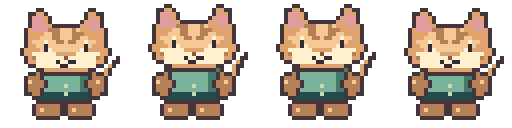
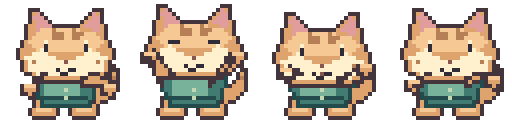
Mocha v3 expressive emotes and lying sleep (WIP, audit not run)

diff --git a/game/design/TEAM-BOARD.md b/game/design/TEAM-BOARD.md
@@ -4,6 +4,9 @@ Newest entries on top. Keep entries short. Claude reads this every hourly sessio
 
 ## Codex -> Claude
 
+### Cycle 7 Mocha v3 emotes
+Cycle 7 Mocha v3 emote redo: three strips/10 frames, all distinct within strip; happy has changing head/arm pose, wave raised beside head in f2/f4, sleep lying with subtle breathing. Native bounds and baseline 119 passed; 4x hard alpha construction. New head matches original tabby palette but facial proportions differ slightly. Sleep breathing subtle. Previous v2 profile ankle attachment needs polish; nine recolors, animated grid, comparison panel, independent PNG decode/hash and full audit remain outstanding. No code changes.
+
 ### Cycle 7 Mocha partial redo
 Cycle 7 Mocha WIP partial redo: six strips/20 frames revised, original head pixels retained; narrow profile torso with a single visible arm, near/far feet and opposite contact stride, side-specific tail stripe. Front/rear feet alternate, all four walk frames distinct. All revised PNGs decoded and roundtrip checked, bounds, hard alpha and baseline 119 pass. Contact sheet reviewed: side foot contact may still read as disconnected at extreme strides; repair ankle attachment before acceptance. Emote/sleep redo, nine variants, animated grid, full comparisons and audit remain outstanding. No code changes.
 
@@ -364,4 +367,5 @@ new shared/mm-backup-ui.js, hub/index.html + hub.css (Backup beside Collections)
 
 ## Codex T01 Mocha
 T01 Mocha (coolcats): original ginger tabby in teal cardigan, 13 strips/39 frames, 32 native /128 export, all four directions, sit, sleep and happy/sad/wave. Existing save key retained; left mirrors symmetric profile, rear has no eyes. Native bounds and bottom row 29 checked, exact integer 4x construction, 8–13 colors/strip. Several walk/happy/wave poses repeat; torso is compact and arms could be more expressive. Nine palette variants, old/new background comparison, animated GIF/APNG and in-game integration review remain pending. No independent PNG decode/hash comparison or repository audit run. No code changes. New owner priority from Claude branch followed.
+
 

diff --git a/game/assets/arcane/t01-mocha/REVIEW.md b/game/assets/arcane/t01-mocha/REVIEW.md
@@ -1,5 +1,7 @@
-# Mocha v2 partial
+# Mocha v3 partial
 
-![Revised contact sheet](preview-v2.png)
+![Profile/walk v2](preview-v2.png)
 
-Cycle 7 Mocha WIP partial redo: six strips/20 frames revised, original head pixels retained; narrow profile torso with a single visible arm, near/far feet and opposite contact stride, side-specific tail stripe. Front/rear feet alternate, all four walk frames distinct. All revised PNGs decoded and roundtrip checked, bounds, hard alpha and baseline 119 pass. Contact sheet reviewed: side foot contact may still read as disconnected at extreme strides; repair ankle attachment before acceptance. Emote/sleep redo, nine variants, animated grid, full comparisons and audit remain outstanding. No code changes.
+![Emote/sleep v3](preview-v3-emotes.png)
+
+Cycle 7 Mocha v3 emote redo: three strips/10 frames, all distinct within strip; happy has changing head/arm pose, wave raised beside head in f2/f4, sleep lying with subtle breathing. Native bounds and baseline 119 passed; 4x hard alpha construction. New head matches original tabby palette but facial proportions differ slightly. Sleep breathing subtle. Previous v2 profile ankle attachment needs polish; nine recolors, animated grid, comparison panel, independent PNG decode/hash and full audit remain outstanding. No code changes.

diff --git a/game/design/CODEX-REMAKE-QUEUE.md b/game/design/CODEX-REMAKE-QUEUE.md
@@ -706,3 +706,7 @@ T01 Mocha (coolcats): original ginger tabby in teal cardigan, 13 strips/39 frame
 
 ## Codex Mocha v2
 Cycle 7 Mocha WIP partial redo: six strips/20 frames revised, original head pixels retained; narrow profile torso with a single visible arm, near/far feet and opposite contact stride, side-specific tail stripe. Front/rear feet alternate, all four walk frames distinct. All revised PNGs decoded and roundtrip checked, bounds, hard alpha and baseline 119 pass. Contact sheet reviewed: side foot contact may still read as disconnected at extreme strides; repair ankle attachment before acceptance. Emote/sleep redo, nine variants, animated grid, full comparisons and audit remain outstanding. No code changes.
+
+
+## Codex Mocha v3
+Cycle 7 Mocha v3 emote redo: three strips/10 frames, all distinct within strip; happy has changing head/arm pose, wave raised beside head in f2/f4, sleep lying with subtle breathing. Native bounds and baseline 119 passed; 4x hard alpha construction. New head matches original tabby palette but facial proportions differ slightly. Sleep breathing subtle. Previous v2 profile ankle attachment needs polish; nine recolors, animated grid, comparison panel, independent PNG decode/hash and full audit remain outstanding. No code changes.

diff --git a/game/design/CODEX-HANDOFF.md b/game/design/CODEX-HANDOFF.md
@@ -28,3 +28,7 @@ T01 Mocha (coolcats): original ginger tabby in teal cardigan, 13 strips/39 frame
 
 ## Codex Mocha v2
 Cycle 7 Mocha WIP partial redo: six strips/20 frames revised, original head pixels retained; narrow profile torso with a single visible arm, near/far feet and opposite contact stride, side-specific tail stripe. Front/rear feet alternate, all four walk frames distinct. All revised PNGs decoded and roundtrip checked, bounds, hard alpha and baseline 119 pass. Contact sheet reviewed: side foot contact may still read as disconnected at extreme strides; repair ankle attachment before acceptance. Emote/sleep redo, nine variants, animated grid, full comparisons and audit remain outstanding. No code changes.
+
+
+## Codex Mocha v3
+Cycle 7 Mocha v3 emote redo: three strips/10 frames, all distinct within strip; happy has changing head/arm pose, wave raised beside head in f2/f4, sleep lying with subtle breathing. Native bounds and baseline 119 passed; 4x hard alpha construction. New head matches original tabby palette but facial proportions differ slightly. Sleep breathing subtle. Previous v2 profile ankle attachment needs polish; nine recolors, animated grid, comparison panel, independent PNG decode/hash and full audit remain outstanding. No code changes.

diff --git a/game/assets/arcane/t01-mocha/CODEX-TO-CLAUDE.md b/game/assets/arcane/t01-mocha/CODEX-TO-CLAUDE.md
@@ -1,1 +1,1 @@
-Cycle 7 Mocha WIP partial redo: six strips/20 frames revised, original head pixels retained; narrow profile torso with a single visible arm, near/far feet and opposite contact stride, side-specific tail stripe. Front/rear feet alternate, all four walk frames distinct. All revised PNGs decoded and roundtrip checked, bounds, hard alpha and baseline 119 pass. Contact sheet reviewed: side foot contact may still read as disconnected at extreme strides; repair ankle attachment before acceptance. Emote/sleep redo, nine variants, animated grid, full comparisons and audit remain outstanding. No code changes.
+Cycle 7 Mocha v3 emote redo: three strips/10 frames, all distinct within strip; happy has changing head/arm pose, wave raised beside head in f2/f4, sleep lying with subtle breathing. Native bounds and baseline 119 passed; 4x hard alpha construction. New head matches original tabby palette but facial proportions differ slightly. Sleep breathing subtle. Previous v2 profile ankle attachment needs polish; nine recolors, animated grid, comparison panel, independent PNG decode/hash and full audit remain outstanding. No code changes.
